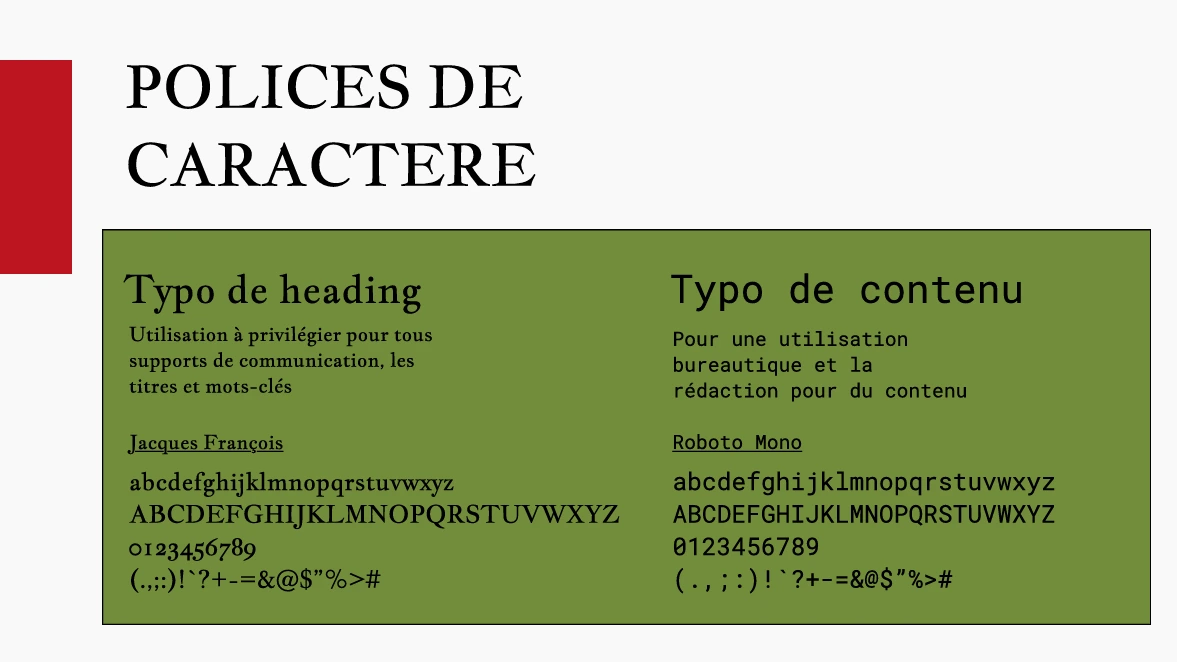
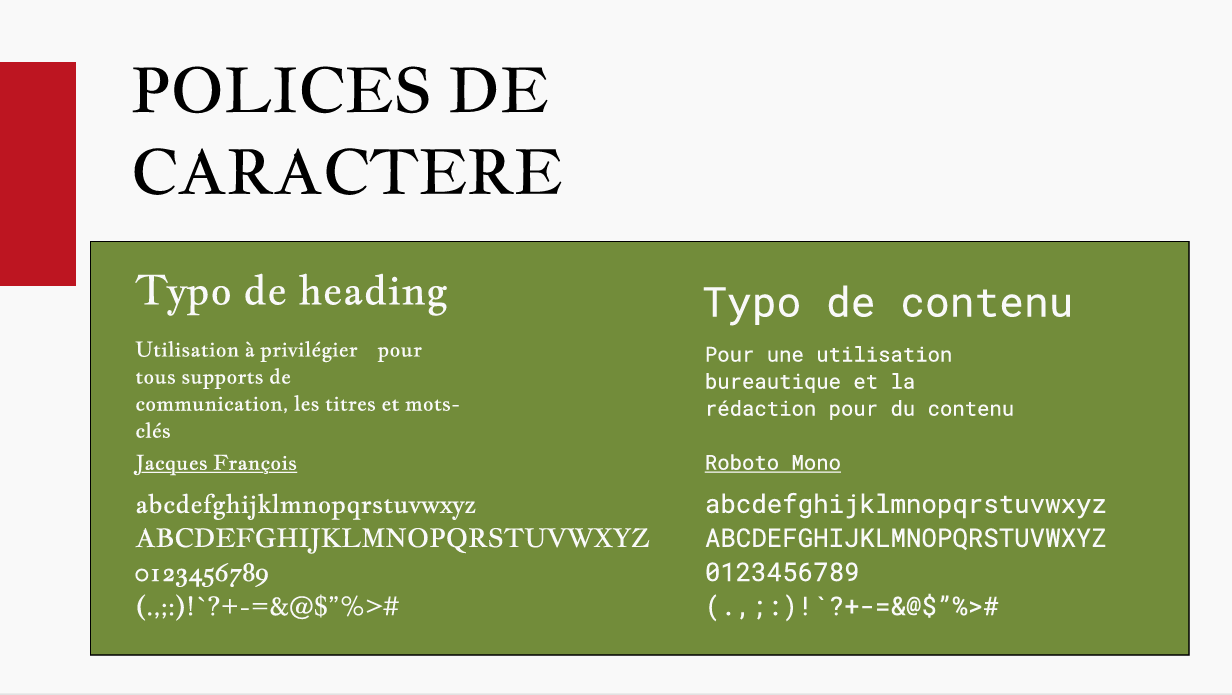
feat: Enhance FeaturedPosts component with button option and improve layout
fix: Update TagsList component z-index for better visibility

feat: Add TopIndex component for improved header section

fix: Adjust Button component styles for better contrast

fix: Modify CvContent component padding for consistent spacing

fix: Update Filter component z-index for better interaction

fix: Improve SkillsCard component styles for better readability

feat: Create new blog post for Lunedit packaging project

fix: Update infoGeneral.json to use consistent logo paths

feat: Add Lunedit project to navigation data

refactor: Integrate TopIndex component into HomeLayout

fix: Update CV page content for accuracy and clarity

fix: Update index page text color for better readability

fix: Improve projects page layout and description handling

style: Update global styles for better dark mode support

diff --git a/src/styles/global.css b/src/styles/global.css
@@ -27,38 +27,40 @@
   @layer base {
 
     article h1 {
-      @apply text-xl uppercase text-center mx-auto ;
+      @apply text-xl uppercase dark:text-foreground-light text-center mx-auto ;
     }
     article h2 {
-      @apply text-3xl underline text-start;
+      @apply text-3xl underline dark:text-foreground-light text-start;
     }
     article h3 {
-      @apply text-xl ;
+      @apply text-xl dark:text-foreground-light ;
     }
     article p {
-      @apply  text-foreground dark:text-background;
+      @apply  text-foreground dark:text-foreground-light;
     }
     article ul{
       @apply list-disc ps-4 text-foreground dark:text-background;
     }
     article em{
-      @apply font-heading text-lg dark:text-background;
+      @apply font-heading text-lg dark:text-foreground-light;
     }
     article strong{
-      @apply dark:text-background;
+      @apply dark:text-foreground-light;
     }
     article img{
       @apply lg:w-auto rounded-lg max-lg:size-auto;
     }
-
+    h1, h2, h3 {
+      @apply dark:text-foreground-light font-heading font-bold mb-5;
+    }
     h1{
-      @apply font-heading text-4xl text-center font-bold mt-10 mb-5;
+      @apply text-4xl text-center mt-10;
     }
     h2{
-      @apply font-heading text-3xl text-center font-bold mt-10 mb-5;
+      @apply text-3xl text-center mt-10;
     }
     h3{
-      @apply font-heading text-xl font-bold mt-5 mb-5;
+      @apply text-xl mt-5;
     }
     p{
       @apply font-base

diff --git a/src/content/blog/lunedit.md b/src/content/blog/lunedit.md
@@ -1,0 +1,10 @@
+---
+title: "Lunedit Pakaging"
+slug: "lunedit"
+description: "Découvrez la migration du site Lunedit de WIX à Astro.js."
+image : "/images/logo-lunedit.png"
+date: 2025-06-20
+status: "Terminé"
+tags: ["Projet de Groupe", "Astro.JS", "TailwindCSS"]
+---
+En cours d'écriture...
